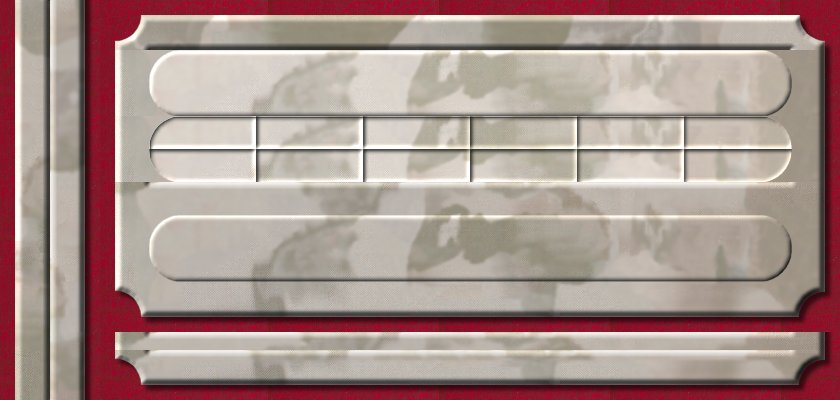
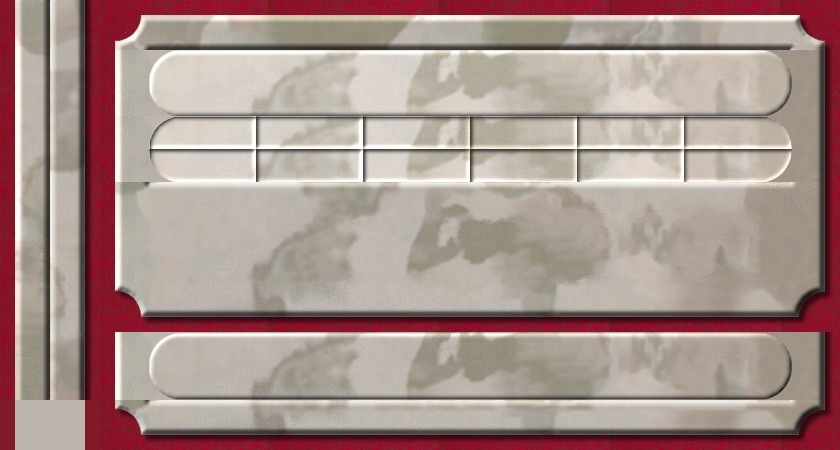
can resize stats screen
git-svn-id: https://svn.code.sf.net/p/domination/code@2714 5f7a89d5-bd68-4938-9893-cab8262575d4

diff --git a/Domination/swingUI/src/net/yura/domination/ui/flashgui/StatsDialog.java b/Domination/swingUI/src/net/yura/domination/ui/flashgui/StatsDialog.java
@@ -9,9 +9,11 @@ import java.awt.event.ActionEvent;
 import java.awt.event.ActionListener;
 import javax.swing.AbstractButton;
 import javax.swing.ButtonGroup;
+import javax.swing.Icon;
 import javax.swing.JDialog;
 import javax.swing.JPanel;
 import javax.swing.JToggleButton;
+import javax.swing.ScrollPaneConstants;
 import net.yura.domination.audio.GameSound;
 import net.yura.domination.engine.Risk;
 import net.yura.domination.guishared.RiskUIUtil;
@@ -19,6 +21,8 @@ import net.yura.domination.engine.core.StatType;
 import net.yura.swing.GraphicsUtil;
 import net.yura.domination.guishared.StatsPanel;
 import net.yura.domination.engine.translation.TranslationBundle;
+import net.yura.swing.ArcCornerIcon;
+import net.yura.swing.ImageIcon;
 
 /**
  * <p> Statistics Dialog for FlashGUI </p>
@@ -54,7 +58,7 @@ public class StatsDialog extends JDialog implements ActionListener {
 		myrisk = r;
 		Back = RiskUIUtil.getUIImage(this.getClass(),"graph.jpg");
 		initGUI();
-		setResizable(false);
+		RiskUIUtil.setMinimumSize(this, getPreferredSize());
 		pack();
 	}
 
@@ -70,7 +74,7 @@ public class StatsDialog extends JDialog implements ActionListener {
 		setTitle( resb.getString("swing.tab.statistics") );
 
 		JPanel thisgraph = new JPanel() {
-                    
+
                     @Override
                     public void doLayout() {
 
@@ -113,8 +117,8 @@ public class StatsDialog extends JDialog implements ActionListener {
 
                 group = new ButtonGroup();
 
-		int x=49;
-		int y=483;
+		int x=149;
+		int y=50;
 		int w=107;
 		int h=33;
 
@@ -125,7 +129,7 @@ public class StatsDialog extends JDialog implements ActionListener {
 
                         // when we have done half, move on to 2nd row
                         if (c == (STAT_TYPES.length/2)-1) {
-                                x=49;
+                                x=149;
                                 y=y+h;
                         }
                 }
@@ -180,7 +184,36 @@ public class StatsDialog extends JDialog implements ActionListener {
                 statbutton.addActionListener( this );
                 group.add(statbutton);
 
-                NewGameFrame.sortOutButton( statbutton, GraphicsUtil.getSubimage(Back, x+100,y-433+165,w,h), GraphicsUtil.getSubimage(Back, x+100,y-433,w,h), GraphicsUtil.getSubimage(Back, x+100,y-433+66,w,h) );
+                Icon nornal = new ImageIcon(GraphicsUtil.getSubimage(Back, x, y + 283, w, h));
+                Icon hover = new ImageIcon(GraphicsUtil.getSubimage(Back, x, y, w, h));
+                Icon pressed = new ImageIcon(GraphicsUtil.getSubimage(Back, x, y + 66, w, h));
+
+                switch (s) {
+                    case 0:
+                        nornal = new ArcCornerIcon(nornal, ScrollPaneConstants.UPPER_LEFT_CORNER);
+                        hover = new ArcCornerIcon(hover, ScrollPaneConstants.UPPER_LEFT_CORNER);
+                        pressed = new ArcCornerIcon(pressed, ScrollPaneConstants.UPPER_LEFT_CORNER);
+                        break;
+                    case 5:
+                        nornal = new ArcCornerIcon(nornal, ScrollPaneConstants.UPPER_RIGHT_CORNER);
+                        hover = new ArcCornerIcon(hover, ScrollPaneConstants.UPPER_RIGHT_CORNER);
+                        pressed = new ArcCornerIcon(pressed, ScrollPaneConstants.UPPER_RIGHT_CORNER);
+                        break;
+                    case 6:
+                        nornal = new ArcCornerIcon(nornal, ScrollPaneConstants.LOWER_LEFT_CORNER);
+                        hover = new ArcCornerIcon(hover, ScrollPaneConstants.LOWER_LEFT_CORNER);
+                        pressed = new ArcCornerIcon(pressed, ScrollPaneConstants.LOWER_LEFT_CORNER);
+                        break;
+                    case 13:
+                        nornal = new ArcCornerIcon(nornal, ScrollPaneConstants.LOWER_RIGHT_CORNER);
+                        hover = new ArcCornerIcon(hover, ScrollPaneConstants.LOWER_RIGHT_CORNER);
+                        pressed = new ArcCornerIcon(pressed, ScrollPaneConstants.LOWER_RIGHT_CORNER);
+                        break;
+                    default:
+                        break;
+                }
+
+                NewGameFrame.sortOutButton(statbutton, nornal, hover, pressed);
 
                 return statbutton;
         }

diff --git a/Domination/swingUI/src/net/yura/swing/ArcCornerIcon.java b/Domination/swingUI/src/net/yura/swing/ArcCornerIcon.java
@@ -1,0 +1,64 @@
+package net.yura.swing;
+
+import java.awt.Component;
+import java.awt.Graphics;
+import java.awt.Graphics2D;
+import javax.swing.Icon;
+import javax.swing.ScrollPaneConstants;
+import java.awt.geom.RoundRectangle2D;
+
+/**
+ * WARNING!! this most likely does not support disabled auto-icon as it is not an ImageIcon
+ */
+public class ArcCornerIcon implements Icon {
+
+    private final String corner;
+    private final Icon base;
+
+    public ArcCornerIcon(Icon base, String corner) {
+        this.base = base;
+        this.corner = corner;
+    }
+
+    @Override
+    public void paintIcon(Component cmpnt, Graphics grphcs, int x, int y) {
+
+        int w = getIconWidth();
+        int h = getIconHeight();
+        int r = Math.min(w, h);
+        int xOffset = - r/2;
+        int yOffset = - r/2;
+        if (ScrollPaneConstants.UPPER_LEFT_CORNER.equals(corner)) {
+            xOffset = 0;
+            yOffset = 0;
+        }
+        else if (ScrollPaneConstants.UPPER_RIGHT_CORNER.equals(corner)) {
+            xOffset = -r;
+            yOffset = 0;
+        }
+        else if (ScrollPaneConstants.LOWER_LEFT_CORNER.equals(corner)) {
+            xOffset = 0;
+            yOffset = -r;
+        }
+        else if (ScrollPaneConstants.LOWER_RIGHT_CORNER.equals(corner)) {
+            xOffset = -r;
+            yOffset = -r;
+        }
+
+        if (grphcs instanceof Graphics2D) {
+            ((Graphics2D)grphcs).clip(new RoundRectangle2D.Double(x + xOffset, y + yOffset, w + r, h + r, r * 2, r * 2));
+        }
+
+        base.paintIcon(cmpnt, grphcs, x, y);
+    }
+
+    @Override
+    public int getIconWidth() {
+        return base.getIconWidth();
+    }
+
+    @Override
+    public int getIconHeight() {
+        return base.getIconHeight();
+    }
+}

diff --git a/Domination/swingUI/src/net/yura/domination/ui/flashgui/NewGameFrame.java b/Domination/swingUI/src/net/yura/domination/ui/flashgui/NewGameFrame.java
@@ -1081,11 +1081,15 @@ public class NewGameFrame extends JFrame implements ActionListener,MouseListener
 	 * @param button2 Image
 	 * @param button3 Image
 	 */
-	public static void sortOutButton(AbstractButton button, Image nornal, Image hover, Image pressed) {
+        public static void sortOutButton(AbstractButton button, Image nornal, Image hover, Image pressed) {
+            sortOutButton(button, new ImageIcon( nornal ), new ImageIcon( hover ), new ImageIcon( pressed ));
+        }
+                    
+	public static void sortOutButton(AbstractButton button, Icon nornal, Icon hover, Icon pressed) {
 
-		button.setIcon( new ImageIcon( nornal ) );
-                button.setRolloverIcon( new ImageIcon( hover ) );
-                Icon down = new ImageIcon( pressed );
+		button.setIcon( nornal );
+                button.setRolloverIcon( hover );
+                Icon down = pressed;
                 button.setRolloverSelectedIcon( down );
                 button.setSelectedIcon( down );
                 button.setPressedIcon( down );

diff --git a/Domination/swingUI/src/net/yura/domination/ui/flashgui/FlashMiniLobby.java b/Domination/swingUI/src/net/yura/domination/ui/flashgui/FlashMiniLobby.java
@@ -60,7 +60,7 @@ public class FlashMiniLobby {
         panel.setBorder( new FlashBorder(
                     GraphicsUtil.getSubimage(img, 100, 0, 740, 50),
                     GraphicsUtil.getSubimage(img, 0, 0, 50, 400),
-                    GraphicsUtil.getSubimage(img, 100, 350, 740, 50), //img.getSubimage(100, 332, 740, 68),
+                    GraphicsUtil.getSubimage(img, 100, 400, 740, 50), //img.getSubimage(100, 332, 740, 68),
                     GraphicsUtil.getSubimage(img, 50, 0, 50, 400)
                 ) );
 
